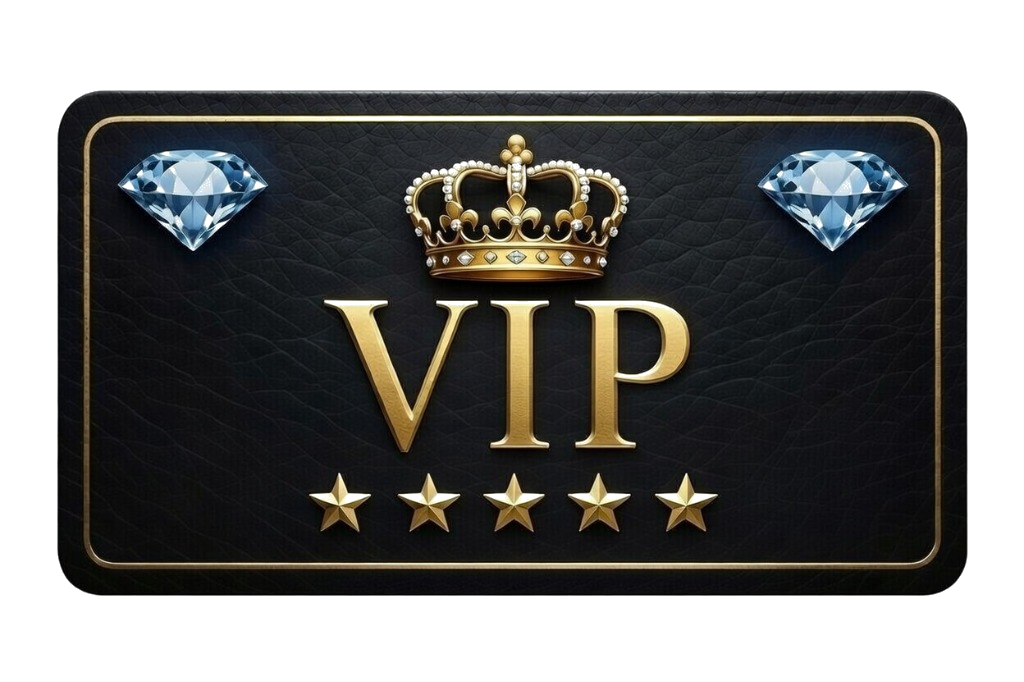
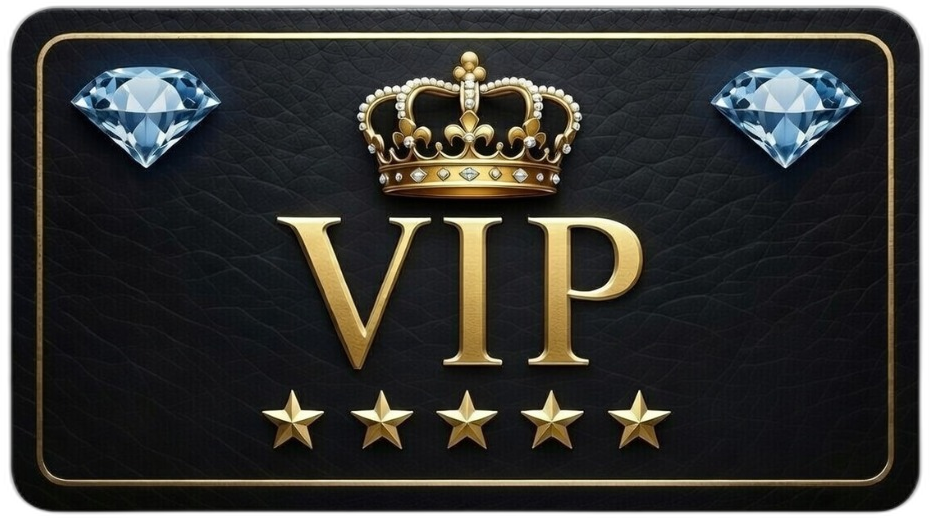
fix: VIP subscribe auth + transparent VIP card image + VIP status check
- Use shared supabase client (fixes 'Please sign in' when already logged in)
- Check if user already has active VIP before subscribing
- Replaced vip-card.jpg with vip-card.png (rembg transparent bg, no white border)

diff --git a/pages/hub/diamond-store.js b/pages/hub/diamond-store.js
@@ -15,7 +15,7 @@ import PageTransition from '../../src/components/transitions/PageTransition';
 import UniversalHeader from '../../src/components/ui/UniversalHeader';
 import ShoppingCart from '../../src/components/store/ShoppingCart';
 import useCartStore from '../../src/stores/cartStore';
-import { createClient } from '@supabase/supabase-js';
+import supabase from '../../src/lib/supabase';
 
 
 
@@ -526,7 +526,7 @@ function VIPCard({ plan, isSelected, onSelect }) {
         >
             {/* VIP Card Image As Full Background */}
             <img
-                src="/images/vip-card.jpg"
+                src="/images/vip-card.png"
                 alt={plan.name}
                 style={{
                     width: '100%',
@@ -791,11 +791,6 @@ export default function DiamondStorePage() {
         setIsProcessing(true);
 
         try {
-            const supabase = createClient(
-                process.env.NEXT_PUBLIC_SUPABASE_URL,
-                process.env.NEXT_PUBLIC_SUPABASE_ANON_KEY
-            );
-
             const { data: { session } } = await supabase.auth.getSession();
 
             if (!session) {
@@ -804,9 +799,21 @@ export default function DiamondStorePage() {
                 return;
             }
 
-            // For now, show coming soon message
+            // Check if user already has an active VIP subscription
+            const { data: profile } = await supabase
+                .from('profiles')
+                .select('is_vip, vip_tier, vip_expires_at')
+                .eq('id', session.user.id)
+                .single();
+
+            if (profile?.is_vip && profile?.vip_expires_at && new Date(profile.vip_expires_at) > new Date()) {
+                alert(`You already have an active VIP ${profile.vip_tier || ''} membership! Your subscription is active until ${new Date(profile.vip_expires_at).toLocaleDateString()}.`);
+                setIsProcessing(false);
+                return;
+            }
+
             // TODO: Add Stripe Price IDs for VIP subscriptions
-            alert('VIP subscriptions coming soon! We need to configure Stripe Price IDs first.');
+            alert('VIP subscriptions launching soon! Stay tuned.');
             setIsProcessing(false);
 
         } catch (error) {
@@ -1197,7 +1204,7 @@ export default function DiamondStorePage() {
                                                 <h3 style={styles.overviewCardTitle}>VIP Membership</h3>
                                                 <div style={{ marginTop: 12, marginBottom: 12 }}>
                                                     <img
-                                                        src="/images/vip-card.jpg"
+                                                        src="/images/vip-card.png"
                                                         alt="VIP Membership Card"
                                                         style={{
                                                             width: '100%',
